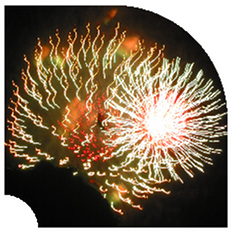
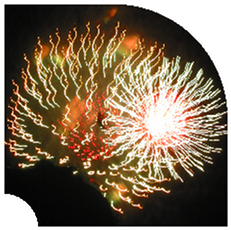
Item5100: tweak image a little - one pixel nafness
git-svn-id: http://develop.twiki.org/svn/twiki/branches/MAIN/twikiplugins@15941 a00a5322-12db-0310-a70b-8735589c885e

diff --git a/MoveableTypeSkin/pub/TWiki/MoveableTypeSample3Design/theme.css b/MoveableTypeSkin/pub/TWiki/MoveableTypeSample3Design/theme.css
@@ -54,7 +54,7 @@ body
 
 #banner-inner { 
 	border:4px solid white;
-	height: 192px;
+	height: 191px;
 	right: -120px;
 	color: darkslategrey;
 	NObackground: steelblue url(fireworks.png) no-repeat scroll right top;
